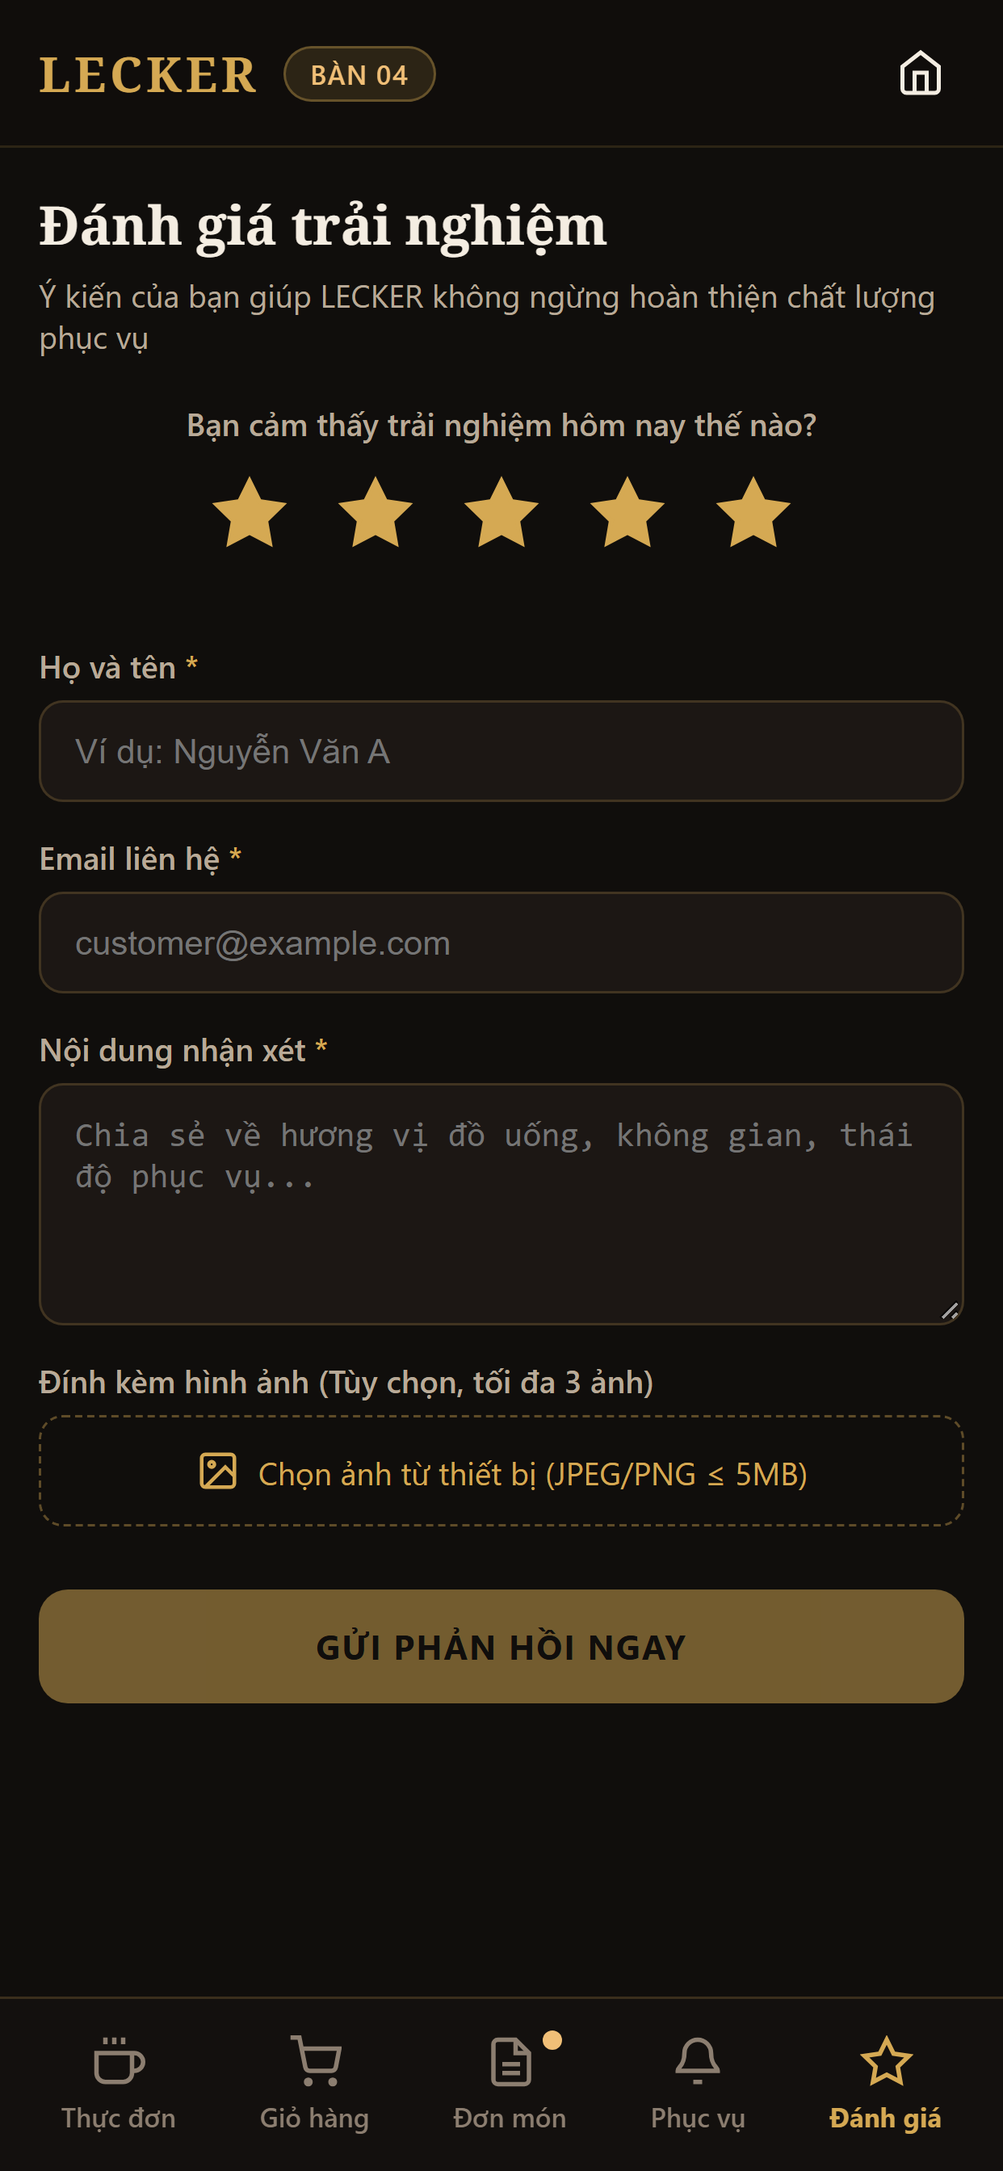
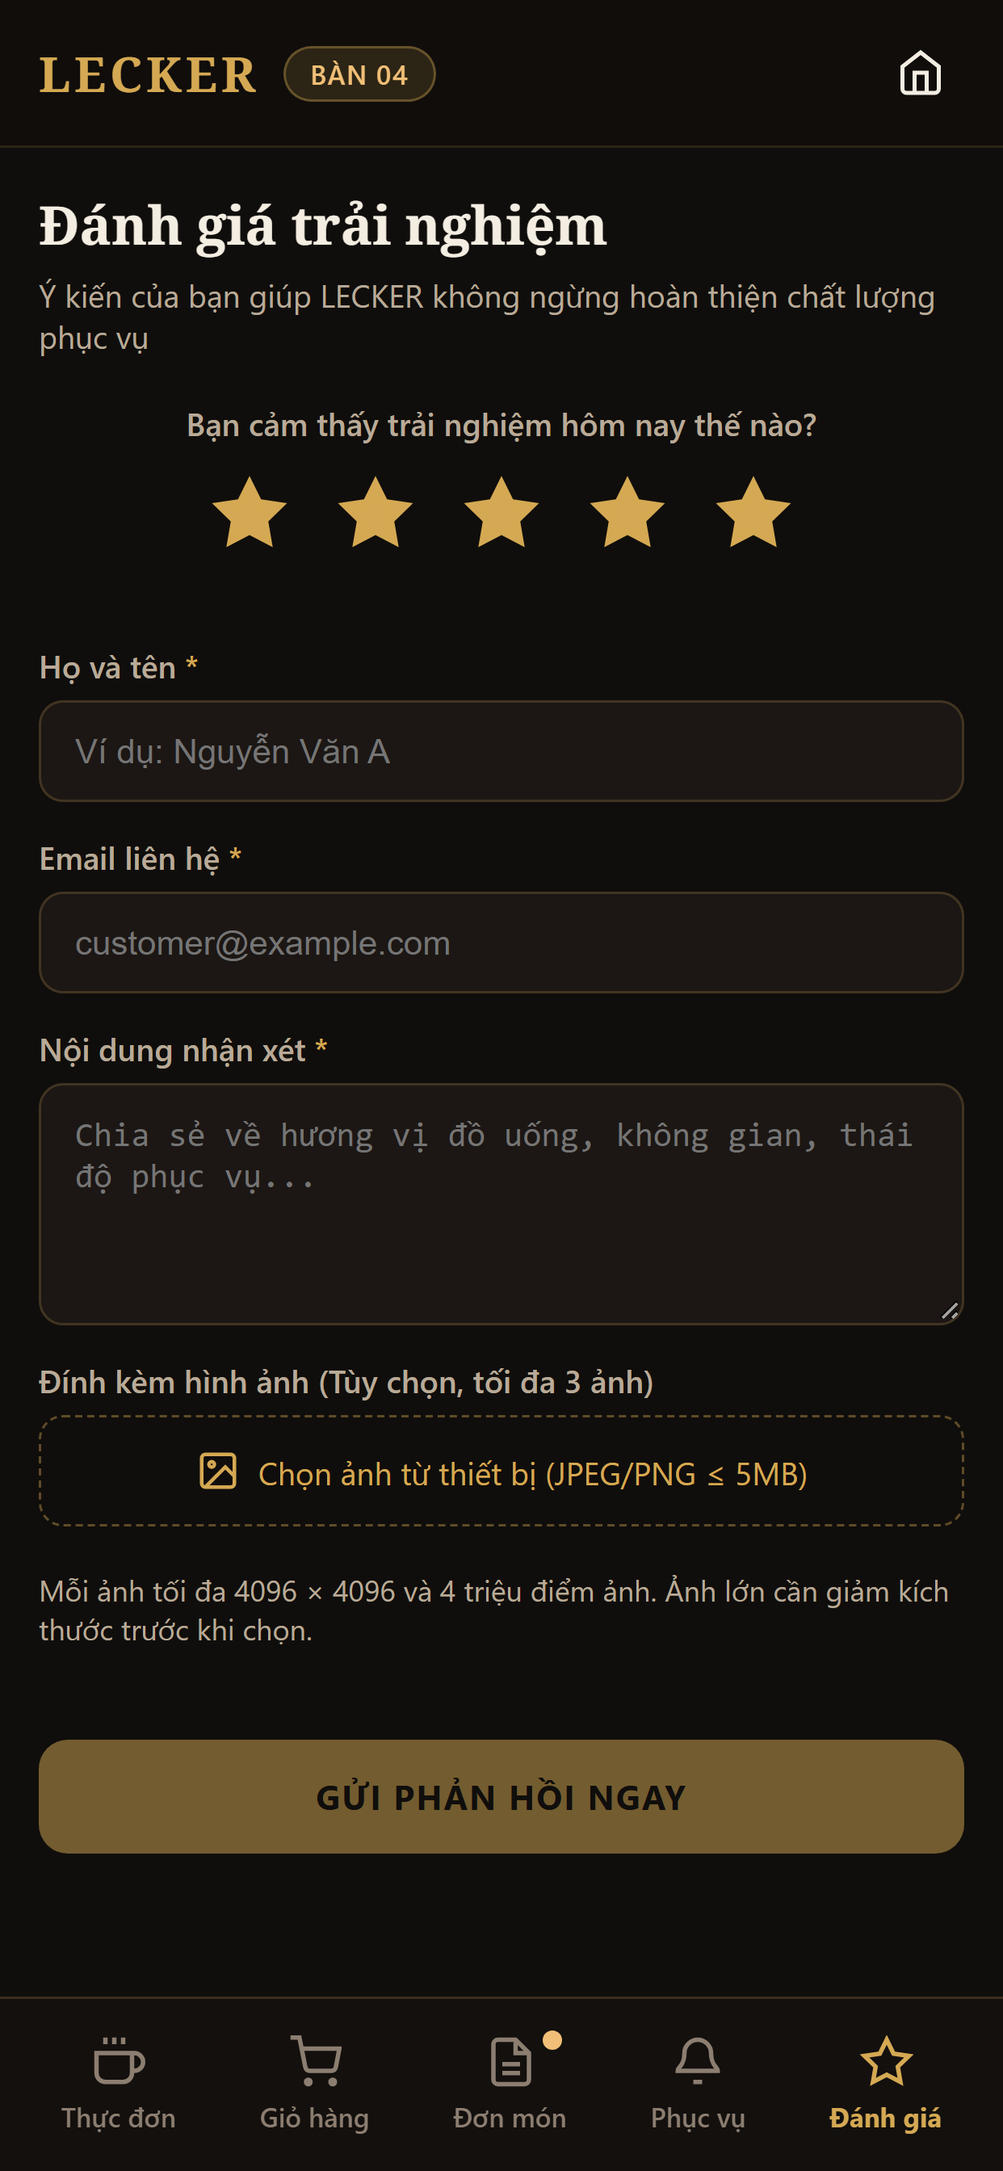
fix(customer): CF-06 remove stale price writes and validate feedback image budgets

Changed region(s): [[0.0306, 0.7188, 0.9791, 0.875]]

diff --git a/frontend/tests/customer.spec.js b/frontend/tests/customer.spec.js
@@ -885,9 +885,11 @@ test.describe("Customer Frontend Workflows (DT2-4)", () => {
     expect(orderRequests[0].body).toEqual(orderRequests[1].body);
   });
 
-  test("18. Revalidates cart item prices when viewing cart and reflects latest menu price", async ({ page }) => {
+  test("18. Cart mount cannot start a stale price writer while submit checks current prices", async ({ page }) => {
     let priceCurrent = "45000";
+    let reads = 0;
     await page.route(/\/api\/v1\/customer\/menu\/items\/101$/, (route) => {
+      reads++;
       route.fulfill({
         status: 200,
         contentType: "application/json",
@@ -910,9 +912,14 @@ test.describe("Customer Frontend Workflows (DT2-4)", () => {
     priceCurrent = "50000";
 
     await page.getByRole("button", { name: /Giỏ hàng/ }).click();
-    await expect(page.locator(".c-badge")).toContainText(/Giá món đã được cập nhật theo thực đơn mới nhất/);
+    await expect(page.getByRole("heading", { name: "Giỏ hàng của bạn" })).toBeVisible();
+    expect(reads).toBe(0);
+    await page.getByRole("button", { name: /GỬI ĐƠN ĐẶT MÓN/ }).click();
+    await expect(page.getByText("Giá món đã thay đổi", { exact: true })).toBeVisible();
+    await page.getByRole("button", { name: "XEM LẠI GIỎ", exact: true }).click();
     await expect(page.locator(".c-cart-price")).toHaveText("50.000 đ");
     await expect(page.locator(".c-summary-total-price")).toHaveText("50.000 đ");
+    expect(reads).toBe(1);
   });
 
   test("19. Menu filter switch clears previous items so failure does not render stale items", async ({ page }) => {
@@ -1020,6 +1027,62 @@ test.describe("Customer Frontend Workflows (DT2-4)", () => {
     await page.getByRole("button", { name: "THỬ LẠI", exact: true }).click();
     await expect.poll(() => posts).toBe(2);
     expect(attempts[1]).toEqual(attempts[0]);
+  });
+
+  test("23. First-page failure is an error, retries the same filter and then renders items", async ({ page }, info) => {
+    const queries = [];
+    let ready = false;
+    await page.route(/\/api\/v1\/customer\/menu\/items(\?.*)?$/, route => {
+      queries.push(new URL(route.request().url()).search);
+      return route.fulfill(ready ? { json: mockMenuItems } : { status: 503, json: { detail: "Thực đơn tạm gián đoạn." } });
+    });
+    await page.goto("/#customer");
+    await expect(page.getByText("Thực đơn tạm gián đoạn.", { exact: true })).toBeVisible();
+    await expect(page.getByText("Không tìm thấy món", { exact: true })).toHaveCount(0);
+    if (info.project.name === "mobile") await page.screenshot({ path: "../docs/handover/evidence/dt2-4/screenshots/09-fe-menu-retry.png" });
+    const first = queries.at(-1);
+    ready = true;
+    await page.getByRole("button", { name: "THỬ LẠI THỰC ĐƠN", exact: true }).click();
+    await expect(page.getByText("Caramel Latte", { exact: true })).toBeVisible();
+    expect(queries.at(-1)).toBe(first);
+    expect(new URLSearchParams(queries.at(-1)).get("page")).toBe("0");
+  });
+
+  test("24. Feedback validates raw dimensions and pixel budget before accepting images", async ({ page }, info) => {
+    let posts = 0;
+    let multipart = false;
+    await page.route("**/api/v1/customer/feedback", route => {
+      posts++;
+      multipart = route.request().headers()["content-type"].includes("multipart/form-data");
+      return route.fulfill({ status: 201, json: { id: "image-feedback", message: "Đã gửi" } });
+    });
+    await page.goto("/#customer");
+    await page.getByRole("button", { name: "Đánh giá", exact: true }).click();
+    const file = async (width, height, type) => {
+      const encoded = await page.evaluate(({ width, height, type }) => {
+        const canvas = document.createElement("canvas"); canvas.width = width; canvas.height = height;
+        return canvas.toDataURL(type).split(",")[1];
+      }, { width, height, type });
+      const buffer = Buffer.from(encoded, "base64");
+      expect(buffer.length).toBeLessThan(5 * 1024 * 1024);
+      return { name: "feedback-image." + (type === "image/png" ? "png" : "jpg"), mimeType: type, buffer };
+    };
+    for (const [width, height, type, error] of [[4032, 3024, "image/jpeg", "4 triệu điểm ảnh"], [2001, 2000, "image/png", "4 triệu điểm ảnh"], [4097, 1, "image/png", "4096"]]) {
+      await page.locator('input[type="file"]').setInputFiles(await file(width, height, type));
+      await expect(page.locator(".c-result-detail")).toContainText(error);
+      if (info.project.name === "mobile" && type === "image/jpeg") await page.screenshot({ path: "../docs/handover/evidence/dt2-4/screenshots/10-fe-image-pixel-limit.png" });
+      await expect(page.locator(".c-image-upload-preview img")).toHaveCount(0);
+      expect(posts).toBe(0);
+      await page.getByRole("button", { name: "ĐÓNG", exact: true }).click();
+    }
+    await page.locator('input[type="file"]').setInputFiles(await file(2000, 2000, "image/png"));
+    await expect(page.locator(".c-image-upload-preview img")).toHaveCount(1);
+    await page.locator("#feedback-name").fill("Khách kiểm thử");
+    await page.locator("#feedback-email").fill("image@example.invalid");
+    await page.locator("#feedback-content").fill("Ảnh trong giới hạn.");
+    await page.getByRole("button", { name: "GỬI PHẢN HỒI NGAY", exact: true }).click();
+    await expect(page.getByText("Cảm ơn bạn!", { exact: true })).toBeVisible();
+    expect(posts).toBe(1); expect(multipart).toBe(true);
   });
 
   test("20. Preserves large BigInt menuItemId in order payload without Number precision loss", async ({ page }) => {

diff --git a/frontend/src/customer/FeedbackView.jsx b/frontend/src/customer/FeedbackView.jsx
@@ -1,6 +1,7 @@
-import { useState, useRef } from "react";
+import { useState, useRef, useEffect } from "react";
 import { submitFeedback, fetchCsrfToken } from "./customerApi.js";
 import OrderResultModal from "./OrderResultModal.jsx";
+import { validateFeedbackImage } from "./feedbackImages.js";
 
 export default function FeedbackView({ onNavigateMenu }) {
   const [rating, setRating] = useState(5);
@@ -11,39 +12,27 @@ export default function FeedbackView({ onNavigateMenu }) {
   const [submitting, setSubmitting] = useState(false);
   const [modalResult, setModalResult] = useState(null);
   const fileInputRef = useRef(null);
+  const imageGeneration = useRef(0);
+  const [validatingImages, setValidatingImages] = useState(false);
+  useEffect(() => () => { imageGeneration.current++; }, []);
 
-  function handleImageChange(e) {
+  async function handleImageChange(e) {
     const files = Array.from(e.target.files || []);
     if (!files.length) return;
 
-    const validImages = [];
-    for (const f of files) {
-      if (!["image/jpeg", "image/png"].includes(f.type)) {
-        setModalResult({
-          status: "failure",
-          title: "Định dạng không hỗ trợ",
-          detail: `File ${f.name} không phải JPEG hoặc PNG.`,
-        });
-        return;
+    const generation = ++imageGeneration.current;
+    setValidatingImages(true);
+    try {
+      if (images.length + files.length > 3) throw new Error("Vui lòng chọn tối đa 3 ảnh.");
+      for (const file of files) await validateFeedbackImage(file);
+      if (generation === imageGeneration.current) setImages(prev => [...prev, ...files]);
+    } catch (error) {
+      if (generation === imageGeneration.current) setModalResult({ status: "failure", title: "Ảnh không hợp lệ", detail: error.message });
+    } finally {
+      if (generation === imageGeneration.current) {
+        setValidatingImages(false);
+        if (fileInputRef.current) fileInputRef.current.value = "";
       }
-      if (f.size > 5 * 1024 * 1024) {
-        setModalResult({
-          status: "failure",
-          title: "Ảnh vượt quá 5MB",
-          detail: `Ảnh ${f.name} có dung lượng vượt quá 5MB.`,
-        });
-        return;
-      }
-      validImages.push(f);
-    }
-
-    setImages((prev) => {
-      const merged = [...prev, ...validImages].slice(0, 3);
-      return merged;
-    });
-
-    if (fileInputRef.current) {
-      fileInputRef.current.value = "";
     }
   }
 
@@ -53,6 +42,7 @@ export default function FeedbackView({ onNavigateMenu }) {
 
   async function handleSubmit(e) {
     e.preventDefault();
+    if (validatingImages || submitting) return;
     if (!name.trim() || !email.trim() || !content.trim()) {
       setModalResult({
         status: "failure",
@@ -196,28 +186,29 @@ export default function FeedbackView({ onNavigateMenu }) {
               gap: "8px",
             }}
             onClick={() => fileInputRef.current?.click()}
-            disabled={images.length >= 3}
+            disabled={images.length >= 3 || validatingImages || submitting}
           >
             <svg width="18" height="18" viewBox="0 0 24 24" fill="none" stroke="currentColor" strokeWidth="2">
               <rect x="3" y="3" width="18" height="18" rx="2" ry="2" />
               <circle cx="8.5" cy="8.5" r="1.5" />
               <polyline points="21 15 16 10 5 21" />
             </svg>
-            {images.length >= 3 ? "Đã chọn tối đa 3 ảnh" : "Chọn ảnh từ thiết bị (JPEG/PNG ≤ 5MB)"}
+            {validatingImages ? "Đang kiểm tra ảnh…" : images.length >= 3 ? "Đã chọn tối đa 3 ảnh" : "Chọn ảnh từ thiết bị (JPEG/PNG ≤ 5MB)"}
           </button>
+          <p style={{ color: "#b9aa98", fontSize: "12px" }}>Mỗi ảnh tối đa 4096 × 4096 và 4 triệu điểm ảnh. Ảnh lớn cần giảm kích thước trước khi chọn.</p>
 
           {images.length > 0 && (
             <div className="c-image-upload-preview">
               {images.map((file, idx) => {
-                const url = URL.createObjectURL(file);
                 return (
                   <div key={idx} className="c-image-thumb-box">
-                    <img src={url} alt={`Ảnh ${idx + 1}`} onLoad={() => URL.revokeObjectURL(url)} />
+                    <ImagePreview file={file} index={idx} />
                     <button
                       type="button"
                       className="c-btn-remove-img"
                       onClick={() => removeImage(idx)}
                       aria-label="Xóa ảnh"
+                      disabled={validatingImages || submitting}
                     >
                       ×
                     </button>
@@ -233,7 +224,7 @@ export default function FeedbackView({ onNavigateMenu }) {
           <button
             type="submit"
             className="c-btn-primary"
-            disabled={submitting || !name.trim() || !email.trim() || !content.trim()}
+            disabled={submitting || validatingImages || !name.trim() || !email.trim() || !content.trim()}
           >
             {submitting ? "ĐANG GỬI PHẢN HỒI..." : "GỬI PHẢN HỒI NGAY"}
           </button>
@@ -253,4 +244,14 @@ export default function FeedbackView({ onNavigateMenu }) {
       )}
     </div>
   );
+}
+
+function ImagePreview({ file, index }) {
+  const [url, setUrl] = useState(null);
+  useEffect(() => {
+    const objectUrl = URL.createObjectURL(file);
+    setUrl(objectUrl);
+    return () => URL.revokeObjectURL(objectUrl);
+  }, [file]);
+  return <img src={url || undefined} alt={`Ảnh ${index + 1}`} />;
 }

diff --git a/frontend/src/customer/feedbackImages.js b/frontend/src/customer/feedbackImages.js
@@ -1,0 +1,45 @@
+export function imageDimensions(bytes) {
+  const view = new DataView(bytes);
+  if (view.byteLength >= 24 && view.getUint32(0) === 0x89504e47 && view.getUint32(4) === 0x0d0a1a0a
+    && view.getUint32(8) === 13 && view.getUint32(12) === 0x49484452) {
+    return { width: view.getUint32(16), height: view.getUint32(20), type: "image/png" };
+  }
+  if (view.byteLength >= 4 && view.getUint16(0) === 0xffd8) {
+    let offset = 2;
+    while (offset < view.byteLength) {
+      if (view.getUint8(offset++) !== 0xff) break;
+      while (offset < view.byteLength && view.getUint8(offset) === 0xff) offset++;
+      if (offset >= view.byteLength) break;
+      const marker = view.getUint8(offset++);
+      if (marker === 0xda || marker === 0xd9) break;
+      if (marker === 0x01 || marker >= 0xd0 && marker <= 0xd7) continue;
+      if (offset + 2 > view.byteLength) break;
+      const length = view.getUint16(offset);
+      if (length < 2 || offset + length > view.byteLength) break;
+      if ([0xc0, 0xc1, 0xc2, 0xc3, 0xc5, 0xc6, 0xc7, 0xc9, 0xca, 0xcb, 0xcd, 0xce, 0xcf].includes(marker) && length >= 7) {
+        return { width: view.getUint16(offset + 5), height: view.getUint16(offset + 3), type: "image/jpeg" };
+      }
+      offset += length;
+    }
+  }
+  throw new Error("Ảnh không đọc được. Chỉ hỗ trợ JPEG và PNG hợp lệ.");
+}
+
+export async function validateFeedbackImage(file) {
+  if (!["image/jpeg", "image/png"].includes(file.type)) throw new Error("Chỉ hỗ trợ ảnh JPEG và PNG.");
+  if (!file.size || file.size > 5 * 1024 * 1024) throw new Error("Mỗi ảnh phải có dữ liệu và không quá 5 MB.");
+  const { width, height, type } = imageDimensions(await file.arrayBuffer());
+  if (type !== file.type) throw new Error("Định dạng ảnh không khớp nội dung tệp.");
+  if (width < 1 || height < 1 || width > 4096 || height > 4096) throw new Error("Kích thước ảnh tối đa 4096 × 4096 pixel.");
+  if (width * height > 4_000_000) throw new Error("Mỗi ảnh không được vượt quá 4 triệu điểm ảnh. Vui lòng giảm kích thước ảnh trước khi chọn.");
+  // Inspect dimensions before allocating a raster, matching the backend budget.
+  const url = URL.createObjectURL(file);
+  try {
+    await new Promise((resolve, reject) => {
+      const image = new Image();
+      image.onload = resolve;
+      image.onerror = () => reject(new Error("Ảnh không đọc được."));
+      image.src = url;
+    });
+  } finally { URL.revokeObjectURL(url); }
+}

diff --git a/frontend/src/customer/CustomerCartView.jsx b/frontend/src/customer/CustomerCartView.jsx
@@ -1,58 +1,15 @@
-import { useState, useEffect } from "react";
 import { useCustomer, formatVnd } from "./CustomerContext.jsx";
-import { fetchMenuItem } from "./customerApi.js";
 
 export default function CustomerCartView({ onNavigateMenu }) {
   const {
     cart,
     updateCartQuantity,
-    updateCartItemPrice,
     removeFromCart,
     cartTotal,
     isSubmittingOrder,
     pendingOrderSnapshot,
     submitOrder,
   } = useCustomer();
-
-  const [priceNotice, setPriceNotice] = useState(null);
-  const [initialCart] = useState(cart);
-
-  useEffect(() => {
-    if (initialCart.length === 0) return;
-    let mounted = true;
-
-    (async () => {
-      const changes = [];
-      for (const entry of initialCart) {
-        try {
-          const fresh = await fetchMenuItem(entry.item.id);
-          if (fresh && fresh.price != null && String(fresh.price) !== String(entry.item.price)) {
-            changes.push({
-              name: entry.item.name,
-              oldPrice: entry.item.price,
-              newPrice: fresh.price,
-            });
-            if (mounted) {
-              updateCartItemPrice(entry.item.id, fresh.price);
-            }
-          }
-        } catch {
-          // Keep cached price on network failure
-        }
-      }
-      if (mounted && changes.length > 0) {
-        setPriceNotice(
-          `Giá món đã được cập nhật theo thực đơn mới nhất: ${changes
-            .map((c) => `${c.name} (${formatVnd(c.oldPrice)} → ${formatVnd(c.newPrice)})`)
-            .join(", ")}.`
-        );
-      }
-    })();
-
-    return () => {
-      mounted = false;
-    };
-  }, [initialCart, updateCartItemPrice]);
 
   const isEmpty = cart.length === 0;
 
@@ -67,12 +24,6 @@ export default function CustomerCartView({ onNavigateMenu }) {
       <p className="c-subtitle">
         {isEmpty ? "Chưa có món nào được chọn" : `Bạn đang chọn ${cart.length} món`}
       </p>
-
-      {priceNotice && (
-        <div className="c-badge" style={{ backgroundColor: "#eff6ff", color: "#1d4ed8", padding: "8px 12px", borderRadius: "6px", marginBottom: "12px", display: "block" }}>
-          {priceNotice}
-        </div>
-      )}
 
       {/* Empty Cart (08-cart-empty.png) */}
       {isEmpty && (

diff --git a/frontend/src/customer/CustomerMenuView.jsx b/frontend/src/customer/CustomerMenuView.jsx
@@ -14,6 +14,7 @@ export default function CustomerMenuView() {
   const [loading, setLoading] = useState(true);
   const [loadingMore, setLoadingMore] = useState(false);
   const [error, setError] = useState(null);
+  const [firstPageAttempt, setFirstPageAttempt] = useState(0);
   const filterGeneration = useRef(0);
 
   const PAGE_SIZE = 20;
@@ -75,7 +76,7 @@ export default function CustomerMenuView() {
       mounted = false;
       clearTimeout(timer);
     };
-  }, [activeCategoryId, keyword, availableOnly]);
+  }, [activeCategoryId, keyword, availableOnly, firstPageAttempt]);
 
   // Load next page: only advance after success; retry exact failed page on error
   const handleLoadMore = useCallback(() => {
@@ -175,8 +176,10 @@ export default function CustomerMenuView() {
 
       {/* Error state */}
       {error && (
-        <div style={{ background: "rgba(220, 53, 69, 0.15)", border: "1px solid #dc3545", borderRadius: "10px", padding: "12px", marginBottom: "16px", color: "#ff8b8b", fontSize: "13px" }}>
-          {error}
+        <div role="alert" style={{ background: "rgba(220, 53, 69, 0.15)", border: "1px solid #dc3545", borderRadius: "10px", padding: "12px", marginBottom: "16px", color: "#ff8b8b", fontSize: "13px" }}>
+          <p>{error}</p>
+          {!loading && items.length === 0 && <button type="button" className="c-btn-primary"
+            onClick={() => setFirstPageAttempt(value => value + 1)}>THỬ LẠI THỰC ĐƠN</button>}
         </div>
       )}
 
@@ -198,7 +201,7 @@ export default function CustomerMenuView() {
       )}
 
       {/* Empty State */}
-      {!loading && items.length === 0 && (
+      {!loading && !error && items.length === 0 && (
         <div className="c-empty-state">
           <svg className="c-empty-icon" viewBox="0 0 24 24" fill="none" stroke="currentColor" strokeWidth="1.5">
             <circle cx="12" cy="12" r="10" />

diff --git a/docs/handover/dt2-4-frontend.md b/docs/handover/dt2-4-frontend.md
@@ -42,3 +42,11 @@ Tài liệu này mô tả phần đã triển khai và kiểm thử, không thay
 ### Xác nhận giá trước Order — review bổ sung
 
 Thông báo “Giá món đã thay đổi” dùng action `reviewPrices`: nút **XEM LẠI GIỎ** chỉ đóng modal và chuyển về giỏ, không gọi POST. Khách kiểm tra tổng mới rồi bấm nút gửi đơn trong giỏ để xác nhận. Modal lỗi mạng vẫn có **THỬ LẠI**, giữ nguyên attempt/key/payload chưa rõ kết quả. Test Customer #22 bấm trực tiếp CTA đổi giá và kiểm 0 POST, sau đó xác nhận gửi và retry mạng cùng key/payload. Ảnh mobile mới: `docs/handover/evidence/dt2-4/screenshots/08-fe-price-consent.png` (API mock).
+
+### Deep re-review — giá, ảnh và retry trang0
+
+- Bỏ GET/price-write lúc mount CustomerCartView. Chỉ preflight của submitOrder cập nhật giá trước lần gửi mới; không còn request nền có thể về muộn ghi đè giá mới. Retry outcome chưa rõ vẫn giữ key/payload, không đổi cơ chế idempotency.
+- FE kiểm metadata JPEG/PNG trước decode/preview: dữ liệu thật khớp MIME, >0 và ≤5MiB, width/height1–4096 và width×height≤4,000,000, sau đó kiểm ảnh đọc được. Chặn gửi trong lúc kiểm tra; revoke object URL khi đổi ảnh/unmount. Không tự resize/crop hoặc nới giới hạn backend.
+- Trang0 menu lỗi giữ error state, có THỬ LẠI THỰC ĐƠN cho cùng filter/page0; empty chỉ xuất hiện khi response thành công nhưng content rỗng. Load-more giữ retry riêng như cũ.
+- Regression #18 kiểm 0 GET từ mount, preflight cập nhật giá mới và không tạo stale writer; #23 kiểm503→retry cùngquery→200; #24 kiểmJPEG4032×3024 dưới5MiB, PNG2001×2000/4097×1 bị từ chối và PNG2000×2000 được gửi multipart. Ảnh mobile #09/#10 dùng mock API.
+- Lượt cuối: lint/build PASS, unit5/5 và toàn bộ Playwright **226/226 PASS**, Customer **48/48 PASS** (24 kịch bản × desktop/mobile). Không sửa Backend/schema/Firebase trong lượt này; CI Backend kiểm riêng sau push. Kết quả222/222 phía trên là mốc lịch sử trước hai regression mới.
